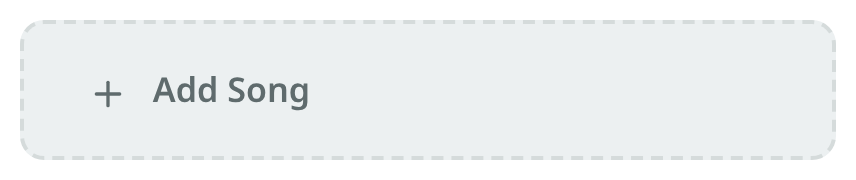
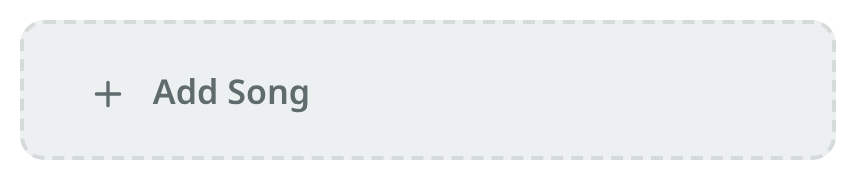
header: the overview's title moves to its row while faded out, and the two layouts are the same height
Claude-Session: https://claude.ai/code/session_01FgoGxKU13z8w2ez8BFNG64

Changed region(s): [[0.1822, 0.4167, 0.3645, 0.6389]]

diff --git a/src/js/setlist/setlist-header.ts b/src/js/setlist/setlist-header.ts
@@ -84,8 +84,6 @@ export class SetlistHeader {
     if (!appHeader) return
 
     appHeader.showEditToggle = true
-    // (on a phone the overview's title has a row to itself, with the icons above it)
-    appHeader.titleBelow = !song
     // (nothing to change)
     if (appHeader.heading === title && !instant) return
 
@@ -99,6 +97,10 @@ export class SetlistHeader {
   }
 
   #showContent(song: RuntimeSong | null) {
+    // (on a phone the overview's title has a row to itself, with the icons above it. This moves
+    // it, so it is done with the rest, while the title and controls are faded out)
+    const appHeader = this.#find<AppHeader>('#app-header')
+    if (appHeader) appHeader.titleBelow = !song
     const musicalMetadata = this.#find<MusicalMetadataDisplay>('#musical-metadata')
     const keySelector = this.#find<KeySelector>('#key-selector')
     const capoSelector = this.#find<CapoSelector>('#capo-selector')

diff --git a/src/components/app-header.ts b/src/components/app-header.ts
@@ -277,6 +277,7 @@ export class AppHeader extends LitElement {
         flex: 0 0 100%;
         padding-left: var(--gap);
         box-sizing: border-box;
+        line-height: 1.2;
       }
 
       .header-row-2 {
